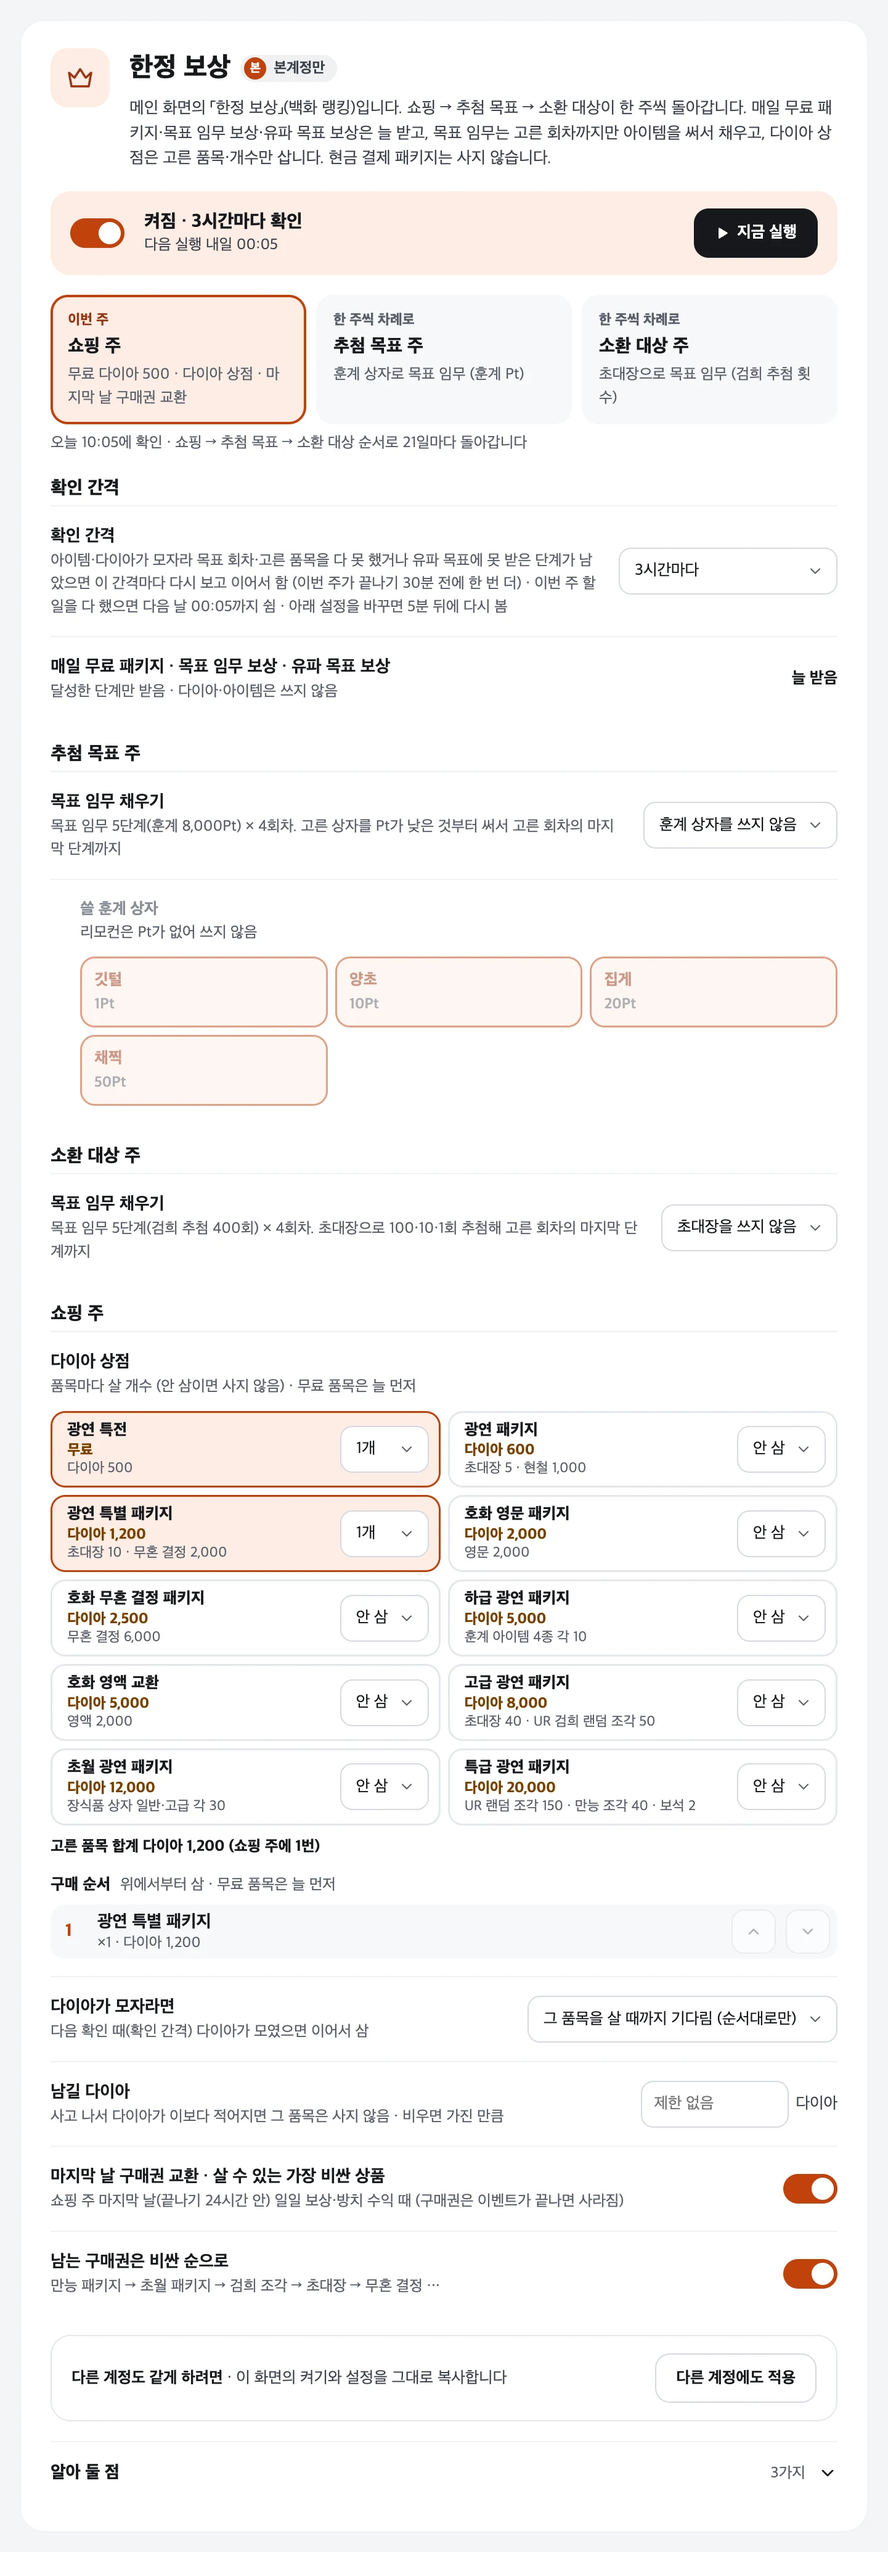
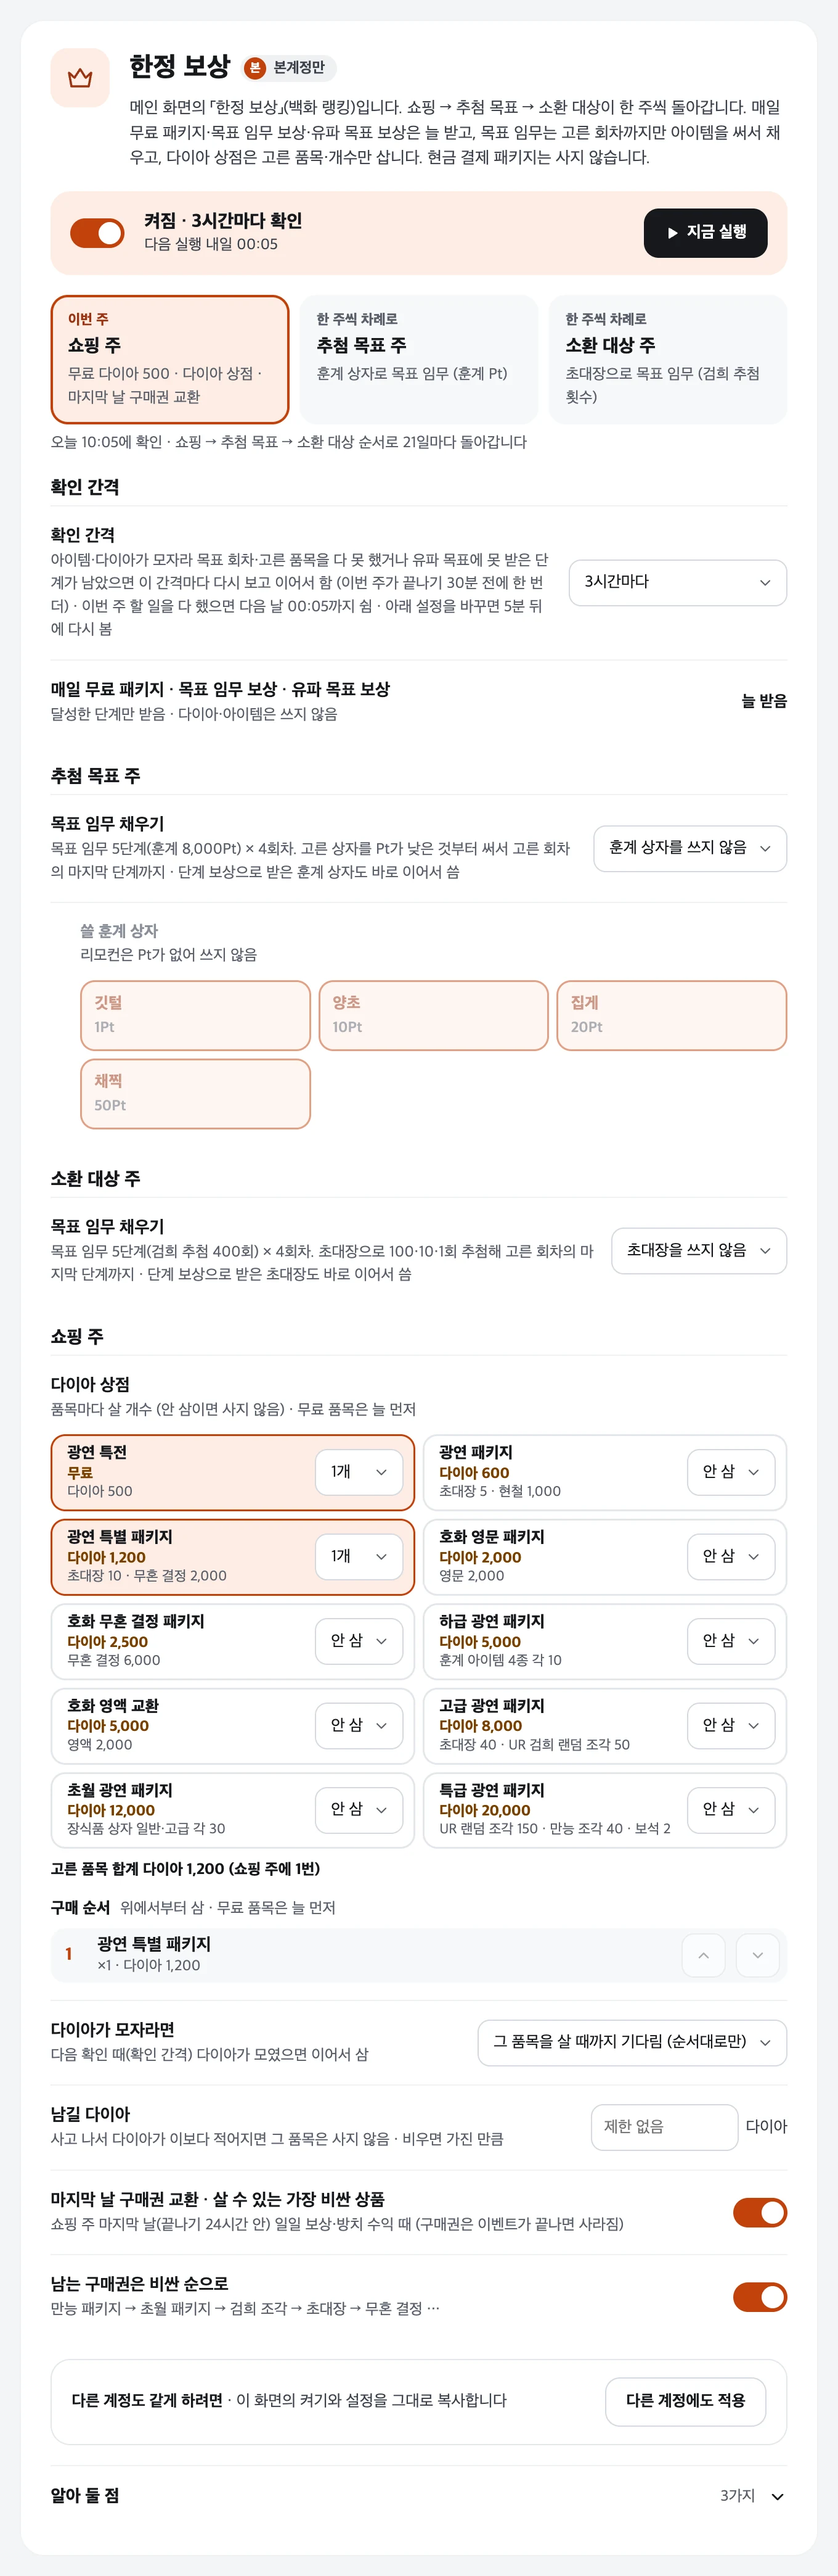
v1.5.126 홈페이지: 공방 다시 시작하는 간격(4~8시간, 기본 8, 짧게 하면 예약이 늦어져도 쉬는 틈 없음), 한정 보상 목표 임무에서 받은 훈계 상자·초대장을 바로 이어서 씀, 공방·한정 보상 설정 화면 이미지
Claude-Session: https://claude.ai/code/session_01KmZacAeoiGxHpjKwWGpkTY

diff --git a/docs/features.html b/docs/features.html
@@ -124,8 +124,8 @@
           <div class="tags"><span class="chip">기본은 무료 보상만</span><span class="chip dia">상점 품목은 고른 것만</span></div>
           <p>게임 메인 화면의 「한정 보상」은 <b>추첨 목표 → 소환 대상 → 쇼핑</b>이 한 주씩 바뀝니다. 매일 무료 패키지와 목표 임무·유파 목표 보상(달성한 단계)을 받습니다.</p>
           <ul>
-            <li><b>추첨 목표 주</b>: 목표 임무를 몇 회차까지(최대 4회차) 채울지 고르면, 고른 훈계 상자를 Pt가 낮은 것부터 써서 채웁니다.</li>
-            <li><b>소환 대상 주</b>: 고른 회차까지 초대장으로 100·10·1회 추첨해서 채웁니다.</li>
+            <li><b>추첨 목표 주</b>: 목표 임무를 몇 회차까지(최대 4회차) 채울지 고르면, 고른 훈계 상자를 Pt가 낮은 것부터 써서 채웁니다. 달성한 단계 보상은 모두 받고, 보상으로 받은 훈계 상자도 바로 이어서 씁니다(v1.5.126부터, 예전에는 다음 확인 때).</li>
+            <li><b>소환 대상 주</b>: 고른 회차까지 초대장으로 100·10·1회 추첨해서 채웁니다. 단계 보상으로 받은 초대장도 바로 이어서 씁니다.</li>
             <li><b>쇼핑 주</b>: 무료 「광연 특전」(다이아 500)을 받고, 품목마다 살 개수와 <b>구매 순서</b>(▲▼)를 정합니다. 다이아가 모자라면 기다리거나 건너뛰고, <b>남길 다이아</b>를 정할 수 있습니다.</li>
             <li><b>쇼핑 주 마지막 날</b>: 남은 구매권을 비싼 상품부터 교환합니다.</li>
           </ul>
@@ -148,7 +148,7 @@
         <div class="mini" id="hbGet"><div class="feat-h"><i data-i="pouchIn"></i><div><h3>복주머니 받기 · 뿌리기</h3><div class="when">각각 1~12시간마다 (기본 3시간)</div></div></div><p>채팅 → 복주머니의 [공유 목록]에 있는 월드·유파 복주머니를 받고, 업적으로 생긴 내 복주머니를 뿌립니다(뿌린 사람도 한 몫).</p><button class="see" type="button" data-zoom="img/panel-hbGet.webp" data-alt="복주머니 받기 설정">설정 화면 보기 →</button></div>
         <div class="mini" id="feast"><div class="feat-h"><i data-i="cup"></i><div><h3>연회 참가</h3><div class="when">켰을 때 · 하루 1~10회 (기본 끔)</div></div></div><p>이벤트 연회에 손님으로 참가해 다이아·교환 코인을 받고, 참가한 연회가 끝나는 대로 다음 연회에 들어갑니다. 기다리는 동안 채팅의 협상 협력 요청도 돕습니다.</p><button class="see" type="button" data-zoom="img/panel-feast.webp" data-alt="연회 참가 설정">설정 화면 보기 →</button></div>
         <div class="mini" id="jingcai"><div class="feat-h"><i data-i="trend"></i><div><h3>예측 · BET</h3><div class="when">예측·BET 기간이 열릴 때마다</div></div></div><p>명장 쟁패전·팀 경기장 경기마다 응원이 더 많은 쪽으로 무료 예측. <b>BET</b>를 켜면 8강 중 전투력이 가장 높은 선수·팀에게 다이아 300으로 주 1번씩. 다른 기능이 돌고 있어도 그 사이에 끼워서 해 30분짜리 예측 기간을 놓치지 않습니다.</p><button class="see" type="button" data-zoom="img/panel-jingcai.webp" data-alt="예측·BET 설정">설정 화면 보기 →</button></div>
-        <div class="mini" id="wzsj"><div class="feat-h"><i data-i="hammer"></i><div><h3>공방</h3><div class="when">8시간마다</div></div></div><p>트루 쉐도우 공방의 상자를 열고 작업을 다시 시작합니다. 공방 작업은 8시간 뒤 멈춥니다.</p><button class="see" type="button" data-zoom="img/panel-wzsj.webp" data-alt="공방 설정">설정 화면 보기 →</button></div>
+        <div class="mini" id="wzsj"><div class="feat-h"><i data-i="hammer"></i><div><h3>공방</h3><div class="when">4~8시간마다 (기본 8시간)</div></div></div><p>트루 쉐도우 공방의 상자를 열고 작업을 다시 시작합니다. 공방 작업은 8시간 뒤 멈추는데, 8시간이 되기 전에 다시 시작해도 만들던 상자는 이어서 만들어집니다. 그래서 <b>다시 시작하는 간격</b>을 짧게 고르면 예약이 늦어져도 공방이 쉬는 틈이 없습니다(v1.5.126부터).</p><button class="see" type="button" data-zoom="img/panel-wzsj.webp" data-alt="공방 설정">설정 화면 보기 →</button></div>
         <div class="mini" id="ghz"><div class="feat-h"><i data-i="flag"></i><div><h3>유파 예선 신청</h3><div class="when">수·목·금 08:05</div></div></div><p>유파 예선에 개인 참가 신청을 합니다(수~금 8:00~19:30에만 신청 가능). 유파가 그 주에 참가하지 않았으면 건너뜁니다.</p><button class="see" type="button" data-zoom="img/panel-ghz.webp" data-alt="유파 예선 신청 설정">설정 화면 보기 →</button></div>
       </div>
     </section>
